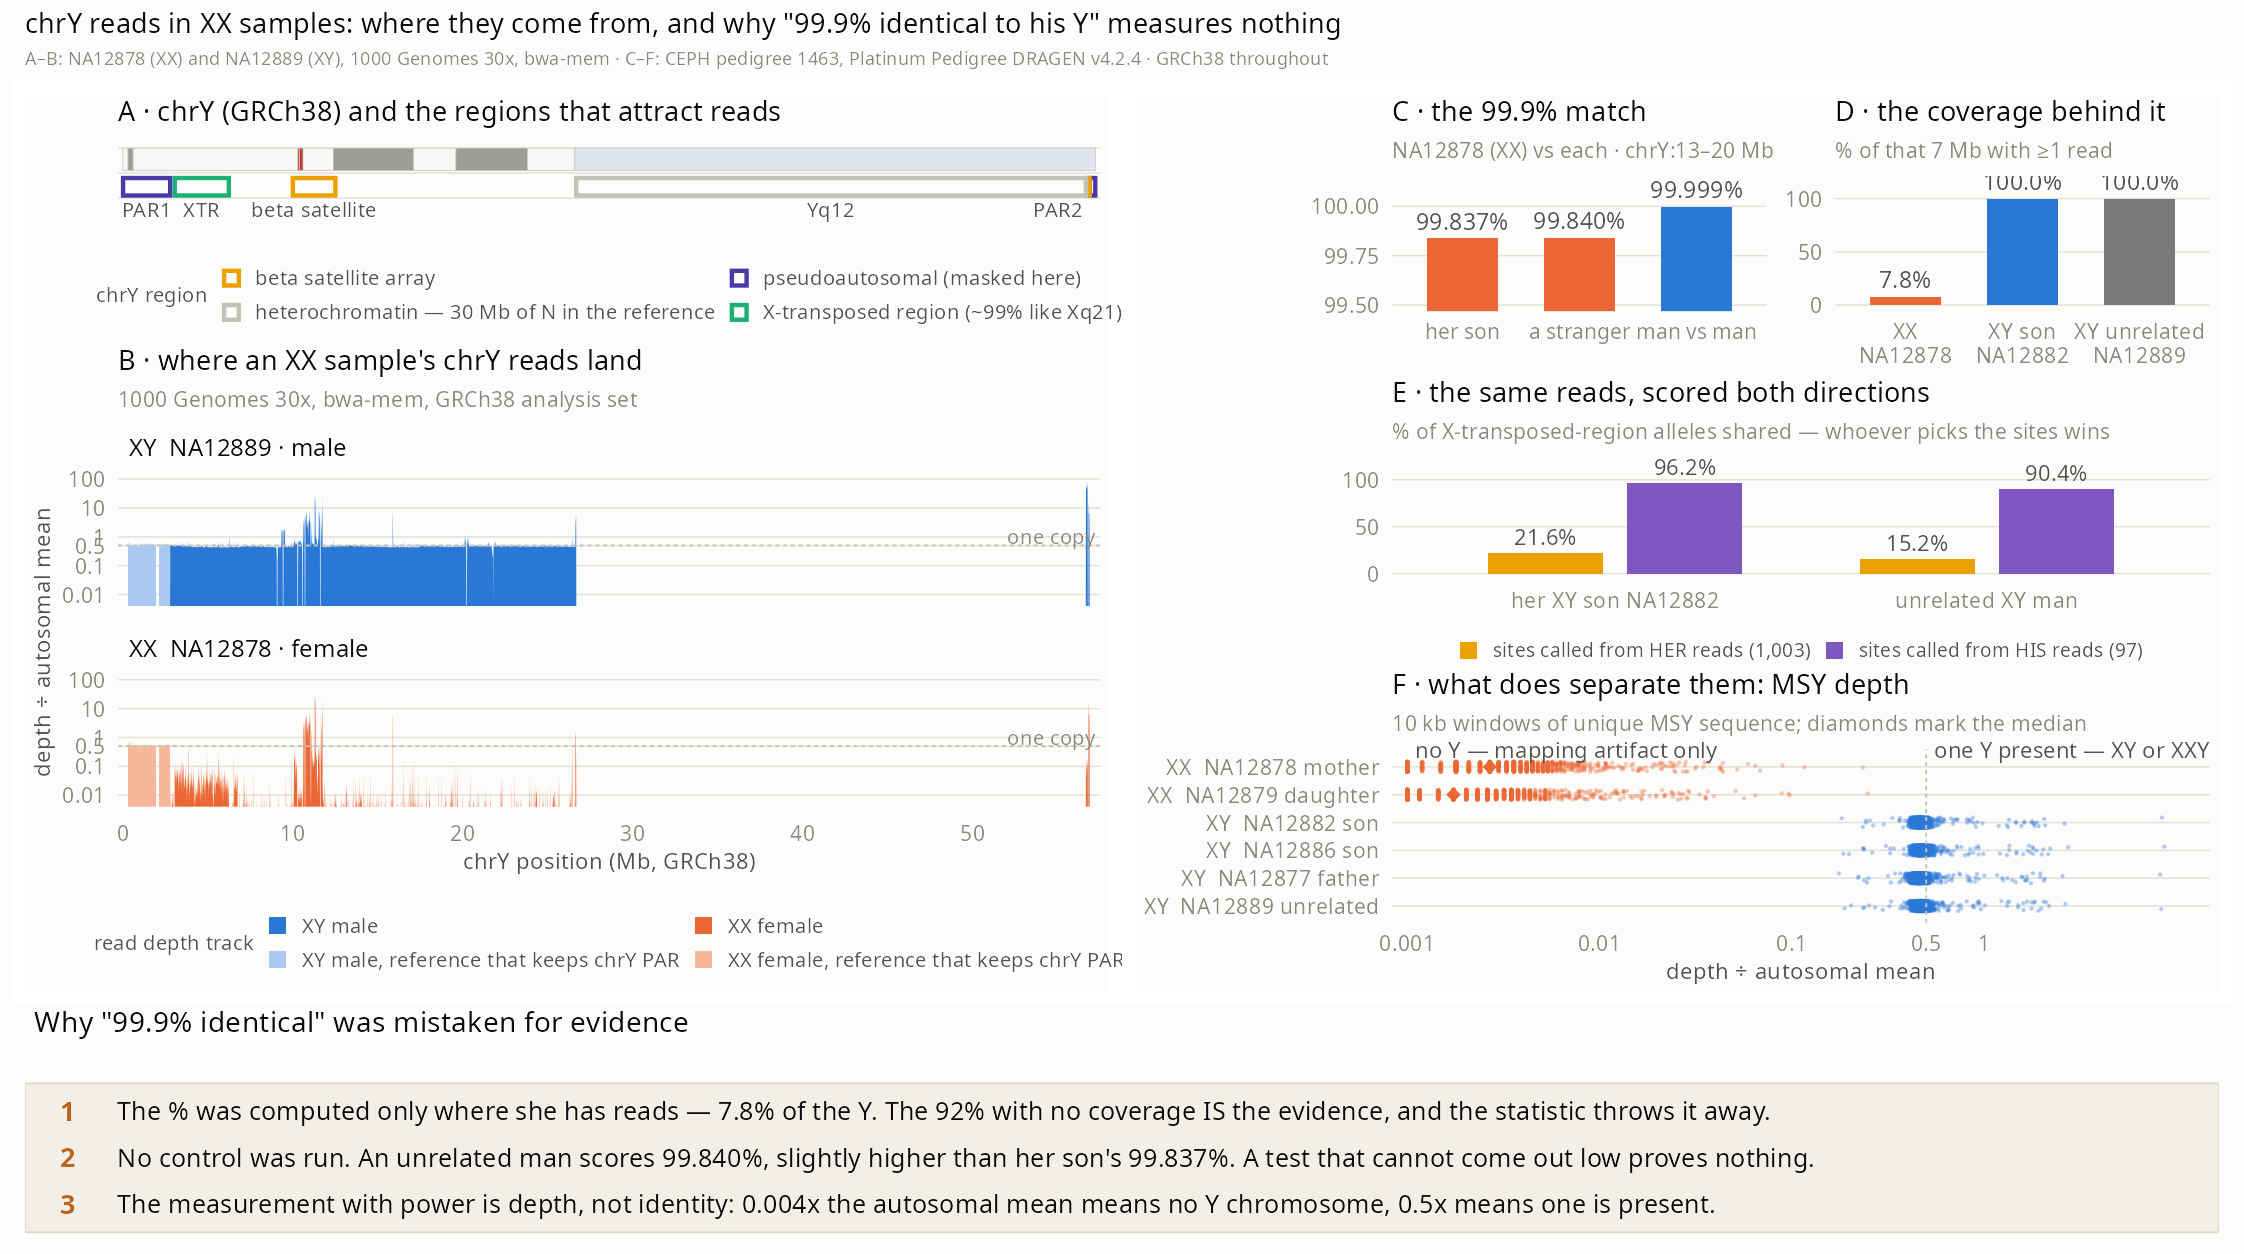
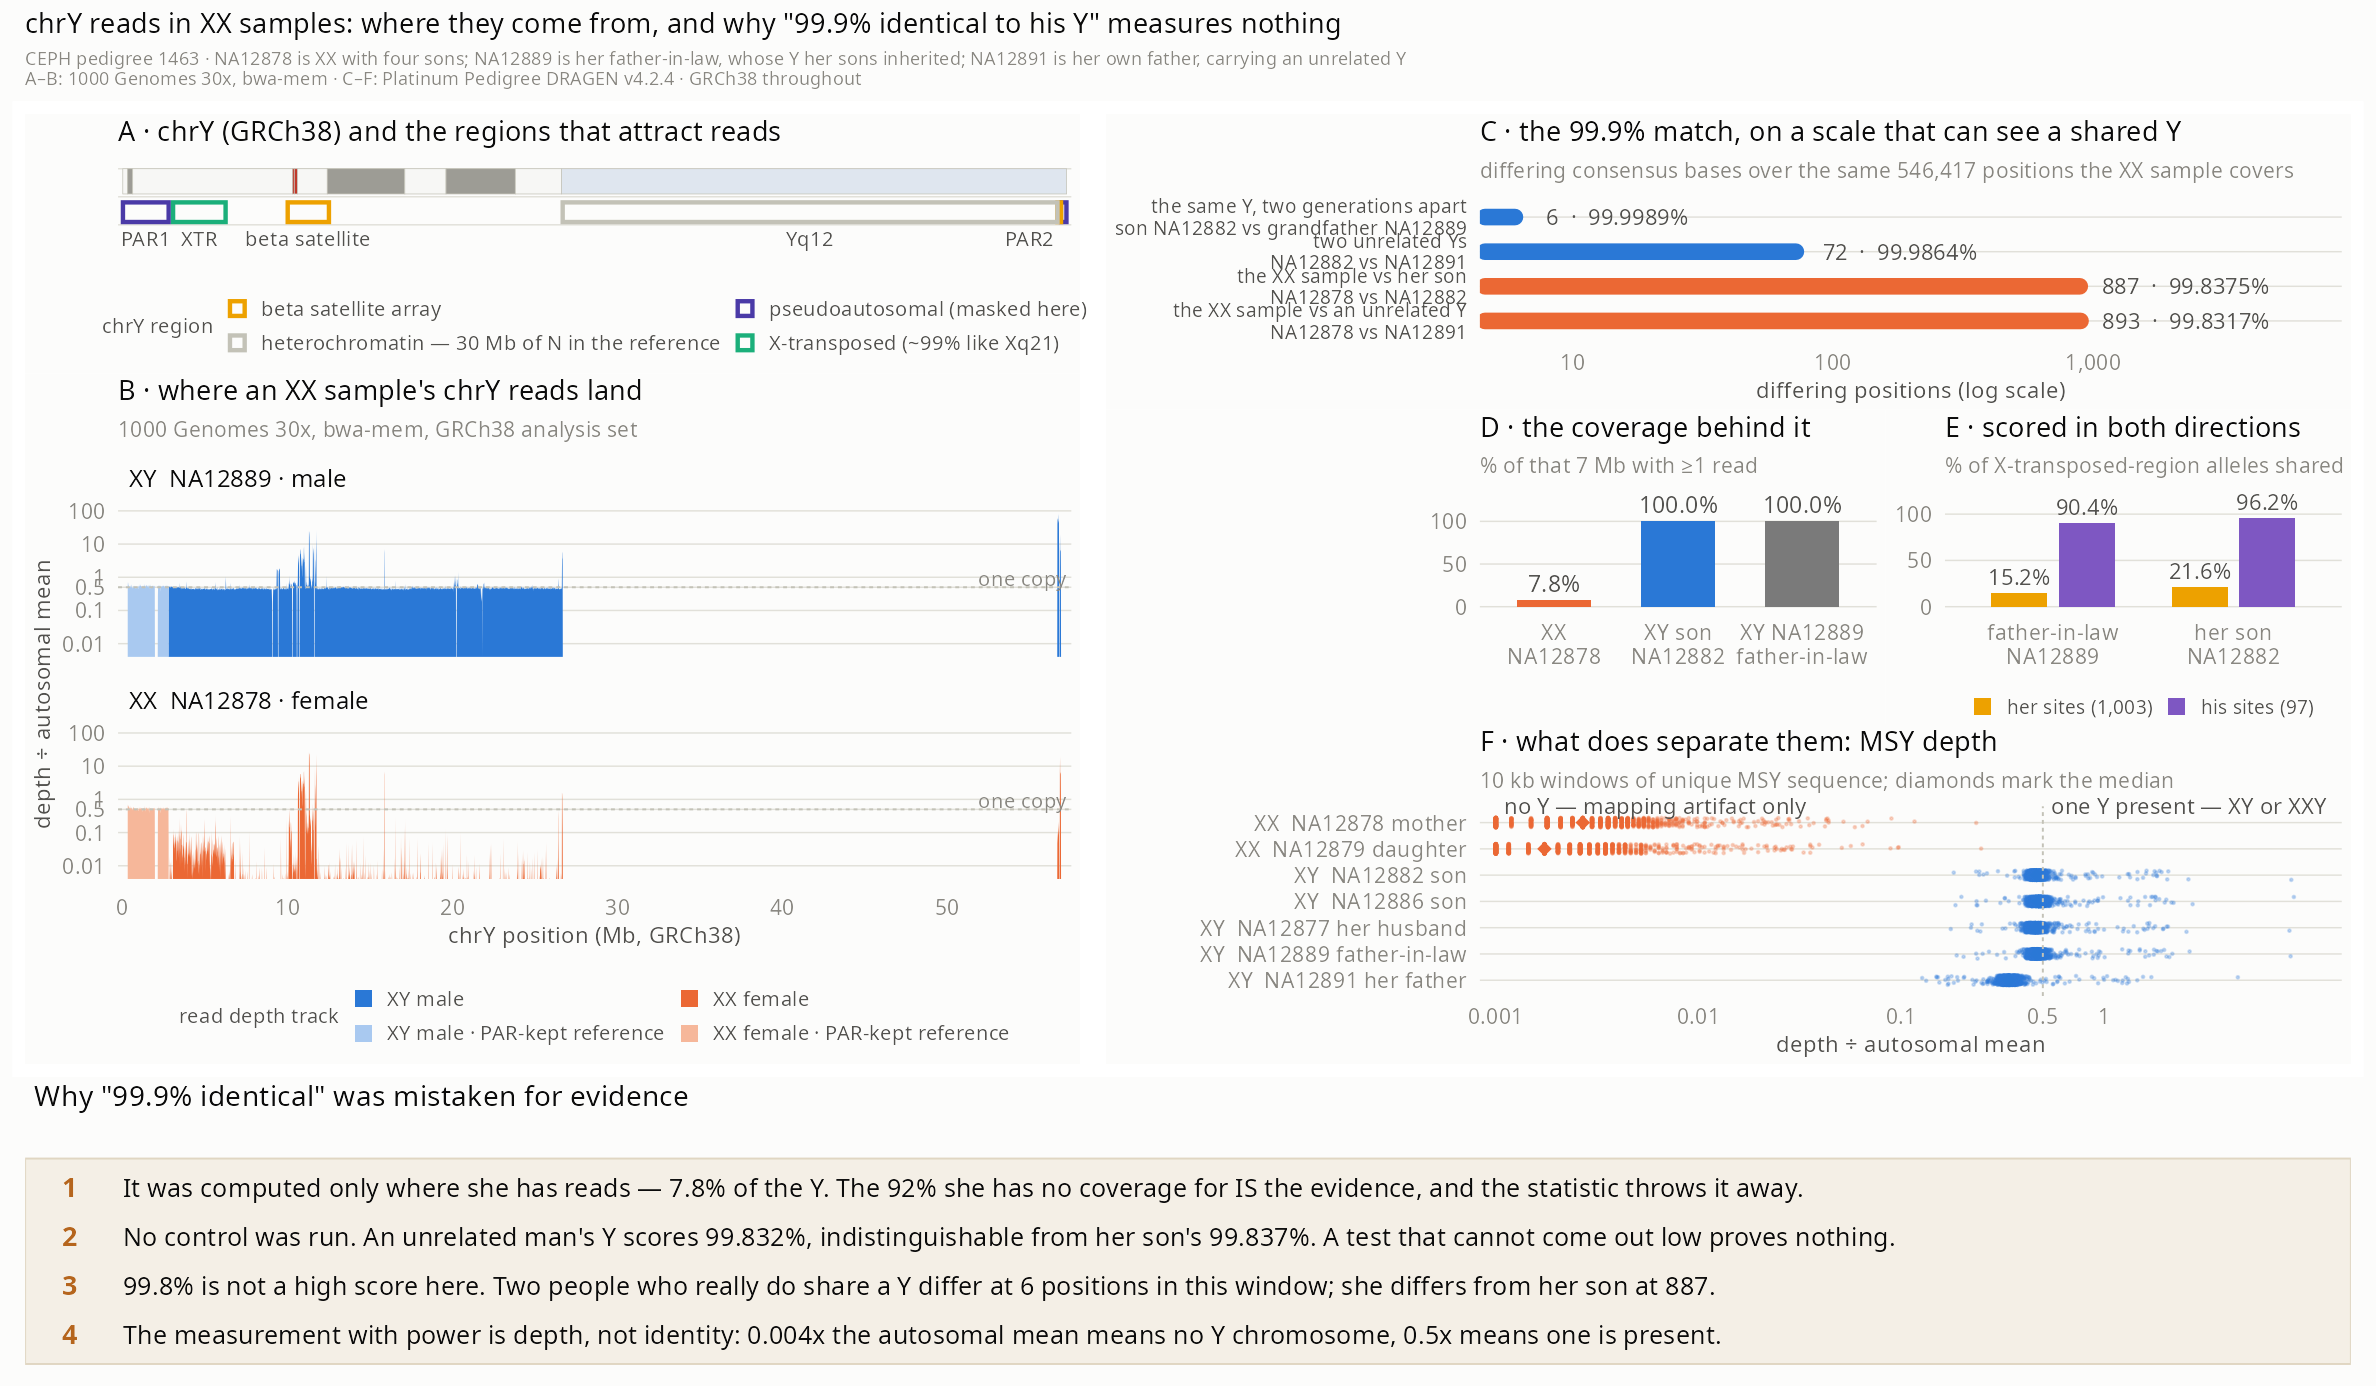
Add an independent-Y control and score identity in differences
NA12889 is NA12877's father, so his Y is the one her sons carry; NA12891
supplies an unrelated Y. Over the same 546,417 positions a genuinely shared Y
differs at 6 sites, two unrelated Ys at 72, and the XX sample at 887 from her
son and 893 from a stranger.

Claude-Session: https://claude.ai/code/session_01X1rKmJF6yDY1jbN4vabaps

Changed region(s): [[0.0, 0.0, 0.9982, 0.9952]]

diff --git a/README.md b/README.md
@@ -1355,26 +1355,34 @@ Three blocks hold 88% of NA12878's 156,293 chrY reads: the X-transposed region
 kb satellite block just proximal to PAR2 (48,351). Her sons pile into the same
 three blocks, on top of a Y. Depth divided by the autosomal mean:
 
-| region                     | NA12878 mother | NA12879 daughter | NA12882 son | NA12886 son | NA12889 unrelated man |
+| region                     | NA12878 mother | NA12879 daughter | NA12882 son | NA12886 son | NA12889 father-in-law |
 | -------------------------- | -------------- | ---------------- | ----------- | ----------- | --------------------- |
 | X-transposed region        | 0.037          | 0.032            | 0.462       | 0.471       | 0.459                 |
 | MSY, unique sequence       | 0.0039         | 0.0031           | 0.487       | 0.497       | 0.491                 |
 | centromeric satellite      | 0.081          | 0.073            | 0.721       | 0.739       | 0.716                 |
 | satellite proximal to PAR2 | 1.14           | 0.96             | 37.5        | 38.6        | 37.4                  |
 
+NA12889 is NA12877's father, so he is no blood relation to NA12878 but carries
+the very Y her sons inherited — a useful pair of properties. Her own father
+NA12891 carries an unrelated Y and sits at 0.353x across the MSY, low enough for
+an aged cell line to raise the question of mosaic loss of Y, and still two
+orders of magnitude above the XX floor.
+
 Correlating 10 kb window profiles across chrY erases the family tree. Against
 NA12878, Pearson r runs 0.25 for her son NA12882, 0.25 for her son NA12886, 0.24
-for her husband NA12877 and 0.25 for the unrelated NA12889 — and 0.99 for her
-daughter NA12879. Sex fixes the profile; relatedness does not move it.
+for her husband NA12877 and 0.25 for NA12889 — and 0.99 for her daughter
+NA12879. Sex fixes the profile; relatedness does not move it.
 
 ![Window-by-window comparison of the XX mother against XX and XY relatives, and X-allele sharing](img/chry_similarity.png)
 
 The alleles say where her reads came from. Inside the X-transposed region her
 chrY reads disagree with the chrY reference at 1,003 positions covered at least
 3x, and another XX individual — her daughter — carries 97.7% of those same
-alleles. Her sons carry 21.6% and 18.3%, and an unrelated man 15.2%. Those
-positions are fixed X-versus-Y differences, so a son's real Y lacks them while
-any second X reproduces them.
+alleles. Her sons carry 21.6% and 18.3%, NA12889 15.2%, and her father NA12891
+39.0%. Those positions are largely fixed X-versus-Y differences, so a son's real
+Y lacks them while any second X reproduces them — and the spread across the four
+men, 15% to 39%, is itself a warning that a shared-allele percentage moves with
+whichever man you compare against.
 
 Read for read the sequences are still nearly the same. Her chrY reads mismatch
 the chrY reference at 0.95% of aligned bases in the X-transposed region and
@@ -1388,17 +1396,26 @@ https://github.com/Platinum-Pedigree-Consortium/Platinum-Pedigree-Datasets
 
 A percent-identity figure between two chrY read sets carries almost no
 information, because every comparison of that kind starts at 99.8%. Take
-chrY:13-20 Mb, call a consensus base wherever a sample has reads, and compare:
-NA12878, karyotypically XX with no Y chromosome, matches her son NA12882 at
-99.837% and an unrelated man at 99.840%. Two men with real Y chromosomes match
-each other at 99.999%. The XX sample scores marginally _worse_ against her own
-son than against a stranger.
+chrY:13-20 Mb, call a consensus base wherever a sample has reads, and score
+every pair over the same 546,417 positions the XX sample covers:
+
+| comparison                                                 | % identical | differing positions |
+| ---------------------------------------------------------- | ----------- | ------------------- |
+| NA12882 and his grandfather NA12889 — genuinely the same Y | 99.9989%    | 6                   |
+| NA12882 and NA12891 — two unrelated Ys                     | 99.9864%    | 72                  |
+| NA12878 (XX) and her son NA12882                           | 99.8375%    | 887                 |
+| NA12878 (XX) and NA12891, an unrelated Y                   | 99.8317%    | 893                 |
+
+Two people who really do share a Y differ at six positions. NA12878 differs from
+her son at 887 — and from an unrelated man's Y at 893, which is the same number.
+Her chrY reads are no closer to her son's Y than to a stranger's, and they are
+148 times further from it than a genuinely shared Y would be.
 
 ![Where an XX sample's chrY reads come from, and why a 99.8% match to a male sample means nothing](img/chry_composite.png)
 
 Panels A and B of that figure say where an XX sample's chrY reads come from;
 panels C to F say what a percent match computed from them measures, and the box
-at the foot names the three mistakes.
+at the foot names the four mistakes.
 
 Conditioning is what inflates the number. NA12878 has at least one read at
 546,490 of the 7,000,000 positions in that window — 7.8% — and a percent
@@ -1414,11 +1431,11 @@ region, a 4.5-fold swing from the direction of the comparison alone.
 
 Depth is what separates a real Y from an artifact, and it separates them
 cleanly. Across unique MSY sequence NA12878 sits at 0.0039x the autosomal mean
-and her daughter at 0.0031x, while the four XY samples land between 0.481x and
-0.497x — one copy of a haploid chromosome, flat, with nothing in the 125-fold
-gap between the two groups. A 47,XXY sample would sit with the men at 0.5x, and
-at 30x sequencing that is roughly 15x of coverage on the Y, which no analysis
-could miss.
+and her daughter at 0.0031x, while the XY samples land between 0.353x and 0.497x
+— one copy of a haploid chromosome, flat, with nothing in the hundred-fold gap
+between the two groups. A 47,XXY sample would sit with the men at 0.5x, and at
+30x sequencing that is roughly 15x of coverage on the Y, which no analysis could
+miss.
 
 Fetal microchimerism does not reach that floor. At a typical 1 in 10^5 cells,
 Y-bearing DNA would contribute on the order of ten reads across 7 Mb of MSY at
@@ -1427,6 +1444,18 @@ sample — a few hundred to one against, which is why the assay for microchimeri
 is ddPCR against Y-specific loci rather than WGS. NA12878 bore four sons before
 her cell line was drawn and her chrY profile is indistinguishable from her
 daughter's.
+
+The failure mode generalises past chromosomes. "Humans and chimpanzees are 98.8%
+identical" is the same construction: the figure counts substitutions in the
+sequence that aligns, and everything that could not be aligned — indels,
+segmental duplications, lineage-specific gene families — sits outside the
+denominator. Add indels and the divergence roughly quadruples, and on the Y
+specifically the two species are not comparable at all, with large parts of each
+male-specific region having no counterpart in the other. Any percent identity is
+a statement about the positions someone chose to compare, and the interesting
+biology usually lives in the positions they could not.
+
+https://www.nature.com/articles/nature08700
 
 ### A complete Y moves more chrY reads than a different person does
 
